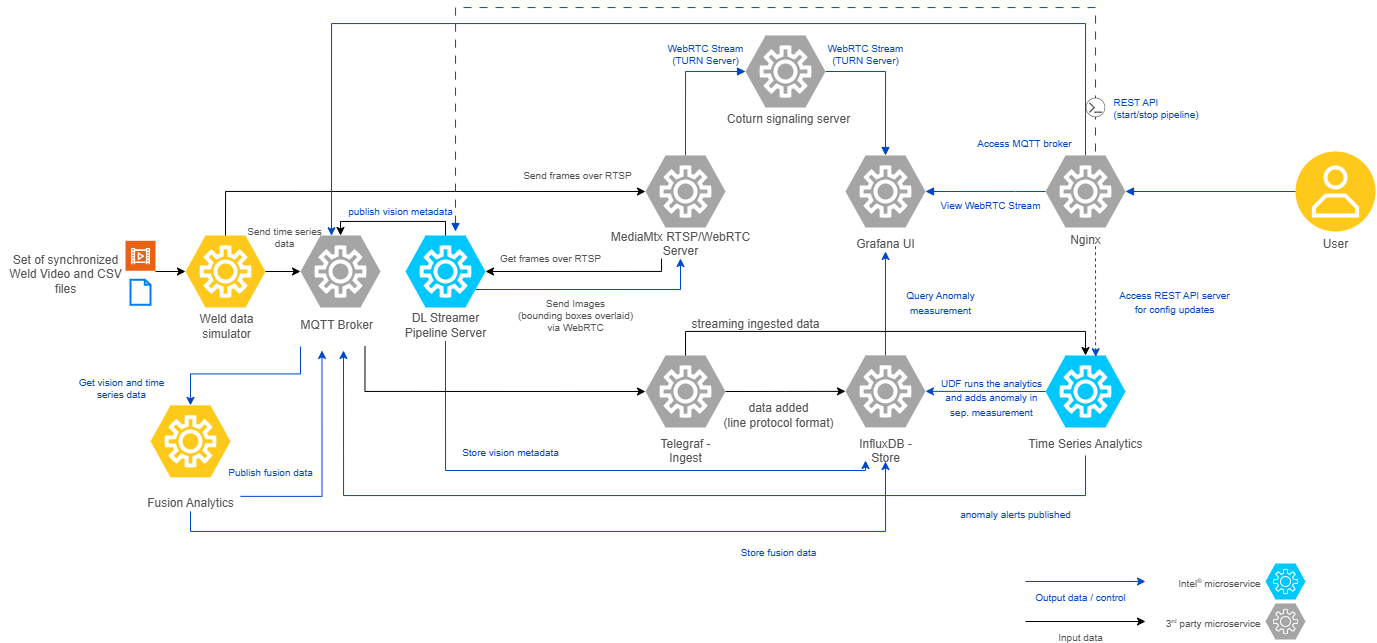
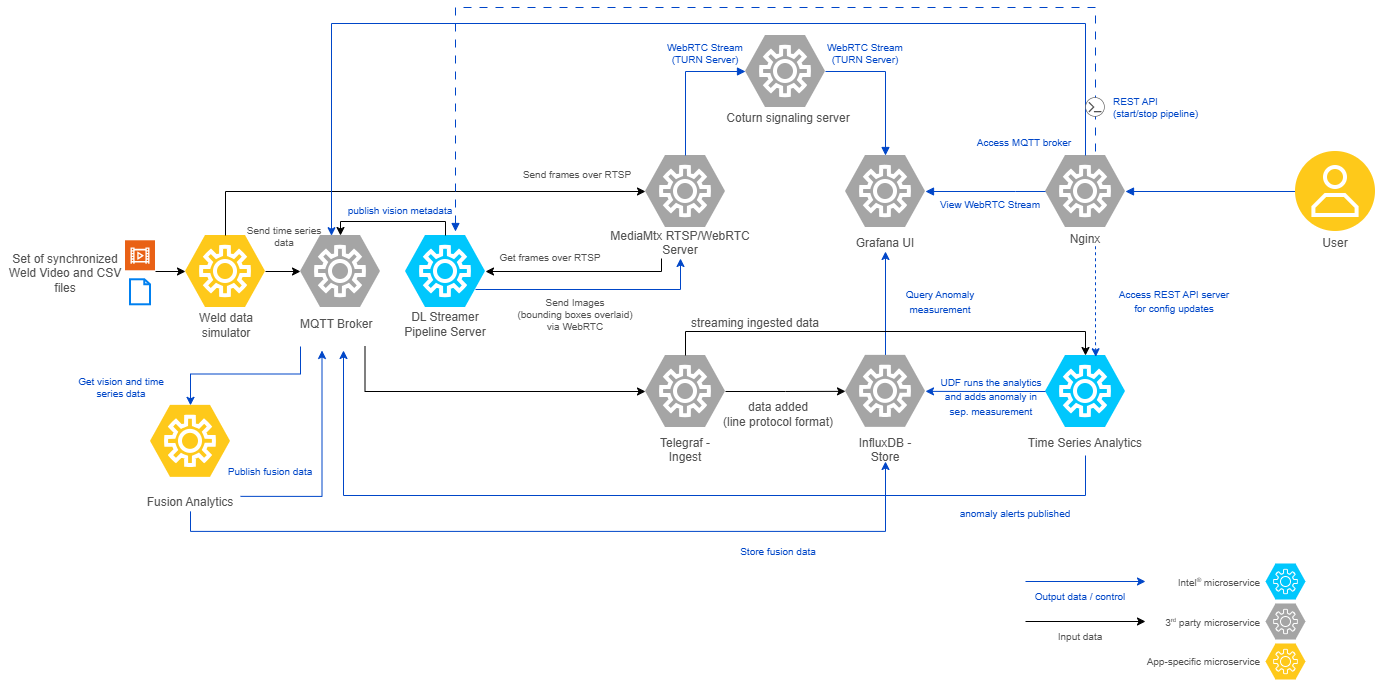
multimodal: Fixed the docs issues (#889)
This PR addresses documentation issues and updates configuration in the multimodal industrial edge insights application. The changes focus on improving clarity and consistency across documentation files and fixing a topic name in the fusion analytics component.

Key Changes:

- Fixed and enhanced documentation for Docker and Helm deployment workflows
- Corrected the fusion analytics MQTT topic name from "fusion/anomaly" to "fusion/anomaly_detection_results"
- Added missing HOST_IP configuration documentation and improved comment formatting
- Updated arch diagram to remove the influxdb out line from DLS PS

diff --git a/manufacturing-ai-suite/industrial-edge-insights-multimodal/docs/user-guide/how-it-works.md b/manufacturing-ai-suite/industrial-edge-insights-multimodal/docs/user-guide/how-it-works.md
@@ -1,78 +1,42 @@
 
 # Architecture
 
-As seen in the following architecture diagram, the sample app at a high-level comprises of data simulators(can act as data destinations if configured) - these in the real world would be the physical devices, the generic Time Series AI stack based on **TICK Stack** comprising of Telegraf, InfluxDB, Time Series Analytics microservice using Kapacitor and Grafana. The Model Registry microservice helps to achieve the MLOps flow by uploading the **UDF deployment package**(comprises of UDF, TICKScripts, models).
-
 ![MultiModal Weld Defect Detection Architecture Diagram](./_images/Multimodal-Weld-Defect-Detection-Architecture.png)
 
 
-## 1. **Data Simulators/Destinations**:
-  There are two data simulators - OPC-UA server and MQTT Publisher which read the data from
-  the CSV file and writes the data to the OPC-UA and MQTT input plugins in Telegraf.
-  The OPC-UA server and the MQTT broker can act as data destinations for receiving the alerts respectively
+## 1. **Weld Data Simulator**:
+
+The Weld Data Simulator simulates the ingestion of weld image and sensor data by reading through the set of time synchronized video and weld csv files. The ingested frames/images are published to MediaMTX RTSP server. Similarly, the ingested weld sensor data are published to Telegraf.
 
 ---
 
-## 2. **Generic Time Series AI stack**
+## 2. **Analytics Modules**
 
-**Key Features**:
+### 2.1 **DL Streamer Pipeline Server**
 
-- Offers a complete pipeline for data ingestion, storage, processing, and visualization.
-- Fully customizable to enable or disable specific services/containers (example, **InfluxDB** can be excluded if data storage is not required).
-- Supports integration with alternative time series databases, allowing flexibility beyond **InfluxDB**.
-- Extensible **Time Series Analytics Microservice** capable of running Deep Learning models by updating its container image, in addition to Machine Learning models accelerated by Intel® Extension for Scikit-learn*.
-- Enables users to ingest their own data via **Telegraf** and implement custom User-Defined Functions (UDFs) in the **Time Series Analytics Microservice** to address specific time series use cases.
-
-### 2.1 **Data Ingestion**
-
-**Telegraf** is a plugin-driven server agent that collects and reports metrics from various sources. It uses input plugins to ingest data and sends it to **InfluxDB** for storage.
-
-- **Supported Input Plugins**: The stack supports multiple input plugins. We have primarily tested the **OPC-UA** and **MQTT** plugins with our **OPC-UA** server and **MQTT** Publisher containers respectively.
-
-- **Documentation**: Refer to the [Telegraf Documentation](https://docs.influxdata.com/telegraf/v1/) for more details.
+The `DL Streamer Pipeline Server` microservice reads the frames/images from the MediaMTX server, runs the configured DL weld
+defect classification model, publishes the frame metadata results over MQTT and generates the webRTC stream with bounded boxes for visualization in **Grafana**.
 
 ---
 
-### 2.2. **Data Storage**
+### 2.2. **Time Series Analytics Microservice**
 
-**InfluxDB** is a high-performance time series database designed to handle large volumes of write and query operations. It stores both raw ingested data and processed data, which can be organized into different measurements (tables).
-
-- **Key Features**:
-  - Optimized for time series data.
-  - Supports high write throughput and efficient querying.
-- **Documentation**: Refer to the [InfluxDB Documentation](https://docs.influxdata.com/influxdb/v1/) for more details.
+**Time Series Analytics Microservice** uses **Kapacitor** - a real-time data processing engine that enables users to analyze time series data. It reads the weld sensor data points point by point coming from **Telegraf**, runs the ML CatBoost model to identify the anomalies, writes the results into configured measurement/table in **InfluxDB** and publishes anomalous data over MQTT.
+Also, publishes all the processed weld sensor data points over MQTT.
 
 ---
 
-### 2.3. **Data Processing**
+### 2.3 **Fusion Analytics**
 
-**Time Series Analytics Microservice** uses **Kapacitor** - a real-time data processing engine that enables users to analyze time series data. It supports both streaming and batch processing and integrates seamlessly with **InfluxDB**.
-Time Series Analytics Microservice has the Intel® Extension for Scikit-learn* python package which when used in the User Defined Functions (UDFs) of Kapacitor would improve the performance of the Machine Learning algorithms.
+**Fusion Analytics** subscribes to the MQTT topics coming out of `DL Streamer Pipeline Server` and `Time Series Analytics Microservice`, applies `AND`/`OR` logic to determine the anomalies during weld process, publishes the results over MQTT and writes the results as a measurement/table in **InfluxDB**
 
-- **Custom Logic with UDFs**:
-  - Users can write custom processing logic, known as **User-Defined Functions (UDFs)**, in Python.
-  - UDFs follow specific API standards, allowing **Kapacitor** to call them at runtime.
-  - Processed data is stored back in **InfluxDB** by default.
-- **Use Case**: Detect anomalies, trigger alerts, and perform advanced analytics.
-- **Documentation**: Refer to the [Kapacitor Anomaly Detection Guide](https://docs.influxdata.com/kapacitor/v1/guides/anomaly_detection/) for details on writing UDFs.
 
-The Time Series Analytics microservice allows customization by reading the UDF deployment package consisting of the UDF scripts, models and TICKScripts from the Model Registry microservice.
+### 3. **Data Visualization**
 
----
-
-### 2.4. **Data Visualization**
-
-**Grafana** provides an intuitive user interface for visualizing time series data stored in **InfluxDB**. It allows users to create custom dashboards and monitor key metrics in real time.
-
-- **Key Features**:
-  - Connects seamlessly with **InfluxDB**.
-  - Supports advanced visualization options.
-- **Documentation**:
-  - [Getting Started with Grafana and InfluxDB](https://grafana.com/docs/grafana/latest/getting-started/get-started-grafana-influxdb/)
-  - [Grafana Documentation](https://grafana.com/docs/grafana/latest/)
+**Grafana** provides an intuitive user interface for visualizing time series data stored in **InfluxDB** and also rendering the output of `DL Streamer Pipeline Server` coming as webRTC stream. Additionally, it visualizes the fusion analytics results stored in **InfluxDB**.
 
 ---
 
 ## Summary
 
-This section provides an overview of the architecture for the Wind Turbine Anomaly Detection sample app. For detailed instructions on getting started, refer to [Get Started](./get-started.md).
+This section provides an overview of the architecture for the Multimodal Weld Defect Detection sample app. For detailed instructions on getting started, refer to [Get Started](./get-started.md).

diff --git a/manufacturing-ai-suite/industrial-edge-insights-multimodal/docs/user-guide/how-to-configure-alerts.md b/manufacturing-ai-suite/industrial-edge-insights-multimodal/docs/user-guide/how-to-configure-alerts.md
@@ -4,7 +4,7 @@ This section provides instructions for setting up alerts in **Time Series Analyt
 
 ## Docker Compose Deployment
 
-### Publish MQTT Alerts
+### Docker - Publish MQTT Alerts
 
 #### Configure MQTT Alerts
 
@@ -38,7 +38,7 @@ already added. By default, the `edge-ai-suites/manufacturing-ai-suite/industrial
 
 > **Note**: Setting **QoS** to `1` ensures messages are delivered at least once. Alerts are preserved and resent if the MQTT broker reconnects after downtime.
 
-### Subscribing to MQTT Alerts
+### Docker - Subscribe to MQTT Alerts
 
 Follow the steps to subscribe to the published MQTT alerts.
 
@@ -48,20 +48,63 @@ Follow the steps to subscribe to the published MQTT alerts.
 docker exec -ti ia-mqtt-broker mosquitto_sub -h localhost -v -t '#' -p 1883
 ```
 
-#### Subscribing to Time Series Analytics Microservice Alerts
-
-- To subscribe to a specific MQTT topic, such as `alerts/weld_defect_detection`, use the following command. Note that the topic information can be found in the TICKScript:
+#### Docker - Subscribing to Time Series Analytics Microservice Alerts
 
 ```sh
 docker exec -ti ia-mqtt-broker mosquitto_sub -h localhost -v -t alerts/weld_defect_detection -p 1883
 ```
 
-#### Subscribing to Fusion Analytics Results
+#### Docker - Subscribing to DLStreamer Pipeline Server Results
 
-- To subscribe to a specific MQTT topic, such as `fusion/anomaly_detection_results`, use the following command. Note that the topic information can be found in the TICKScript:
+```sh
+docker exec -ti ia-mqtt-broker mosquitto_sub -h localhost -v -t vision_weld_defect_classification -p 1883
+```
+
+#### Docker - Subscribing to Fusion Analytics Results
 
 ```sh
 docker exec -ti ia-mqtt-broker mosquitto_sub -h localhost -v -t fusion/anomaly_detection_results -p 1883
+```
+
+## Helm Deployment
+
+### Helm - Publish MQTT Alerts
+
+For detailed instructions on configuring and publishing MQTT alerts, refer to the [Publish MQTT Alerts](#docker---publish-mqtt-alerts) section.
+
+### Helm - Subscribe to MQTT Alerts
+
+Follow the steps to subscribe to the published MQTT alerts.
+
+To subscribe to MQTT topics in a Helm deployment, execute the following command:
+
+- Identify the MQTT broker pod name by running:
+
+```sh
+kubectl get pods -n multimodal-sample-app | grep mqtt-broker
+```
+
+- Use the pod name from the output of the above command to subscribe to all topics:
+```sh
+kubectl exec -it -n multimodal-sample-app <mqtt_broker_pod_name> -- mosquitto_sub -h localhost -v -t '#' -p 1883
+```
+
+#### Helm - Subscribing to Time Series Analytics Microservice Alerts
+
+```sh
+kubectl exec -it -n multimodal-sample-app <mqtt_broker_pod_name> -- mosquitto_sub -h localhost -v -t alerts/weld_defect_detection -p 1883
+```
+
+#### Helm - Subscribing to DLStreamer Pipeline Server Results
+
+```sh
+kubectl exec -it -n multimodal-sample-app <mqtt_broker_pod_name> -- mosquitto_sub -h localhost -v -t vision_weld_defect_classification -p 1883
+```
+
+#### Helm - Subscribing to Fusion Analytics Results
+
+```sh
+kubectl exec -it -n multimodal-sample-app <mqtt_broker_pod_name> -- mosquitto_sub -h localhost -v -t fusion/anomaly_detection_results -p 1883
 ```
 
 ## Supporting Resources

diff --git a/manufacturing-ai-suite/industrial-edge-insights-multimodal/docs/user-guide/how-to-deploy-with-helm.md b/manufacturing-ai-suite/industrial-edge-insights-multimodal/docs/user-guide/how-to-deploy-with-helm.md
@@ -49,14 +49,15 @@ You can either generate or download the Helm charts.
 1. Update the following fields in `values.yaml` file of the helm chart
 
     ``` sh
-    INFLUXDB_USERNAME:
-    INFLUXDB_PASSWORD:
-    VISUALIZER_GRAFANA_USER:
-    VISUALIZER_GRAFANA_PASSWORD:
-    HTTP_PROXY: # example: http_proxy: http://proxy.example.com:891
-    HTTPS_PROXY: # example: http_proxy: http://proxy.example.com:891
-    MTX_WEBRTCICESERVERS2_0_USERNAME:
-    MTX_WEBRTCICESERVERS2_0_PASSWORD
+    INFLUXDB_USERNAME: 
+    INFLUXDB_PASSWORD: 
+    VISUALIZER_GRAFANA_USER: 
+    VISUALIZER_GRAFANA_PASSWORD: 
+    HTTP_PROXY:  # example: http_proxy: http://proxy.example.com:891
+    HTTPS_PROXY:  # example: http_proxy: http://proxy.example.com:891
+    MTX_WEBRTCICESERVERS2_0_USERNAME: 
+    MTX_WEBRTCICESERVERS2_0_PASSWORD: 
+    HOST_IP:  # IP address of server where DLStreamer Pipeline Server is running
     ```
 
 ## Step 3: Install Helm charts 
@@ -186,10 +187,6 @@ kubectl get all -n multimodal-sample-app # It may take a few minutes for all app
 ## Configure Alerts in Time Series Analytics Microservice
 
 To configure alerts in Time Series Analytics Microservice, follow the steps [here](./how-to-configure-alerts.md#helm-deployment).
-
-## Deploy the Application with a Custom UDF
-
-To deploy the application with a custom UDF, follow the steps [here](./how-to-configure-custom-udf.md#helm-deployment).
 
 ## Troubleshooting
 

diff --git a/manufacturing-ai-suite/industrial-edge-insights-multimodal/docs/user-guide/how-to-update-config.md b/manufacturing-ai-suite/industrial-edge-insights-multimodal/docs/user-guide/how-to-update-config.md
@@ -2,7 +2,7 @@
 
 The Time Series Analytics Microservice provides an interactive Swagger UI at `http://<host_ip>:5000/docs`.
 
-**Note:** Use the link `http://localhost:30001/ts-api/docs` to access the Swagger UI if doing a Helm-based deployment on a Kubernetes cluster.
+**Note:** Use the link `http://<host_ip>:30001/ts-api/docs` to access the Swagger UI if doing a Helm-based deployment on a Kubernetes cluster.
 
 ## Accessing the Swagger UI
 
